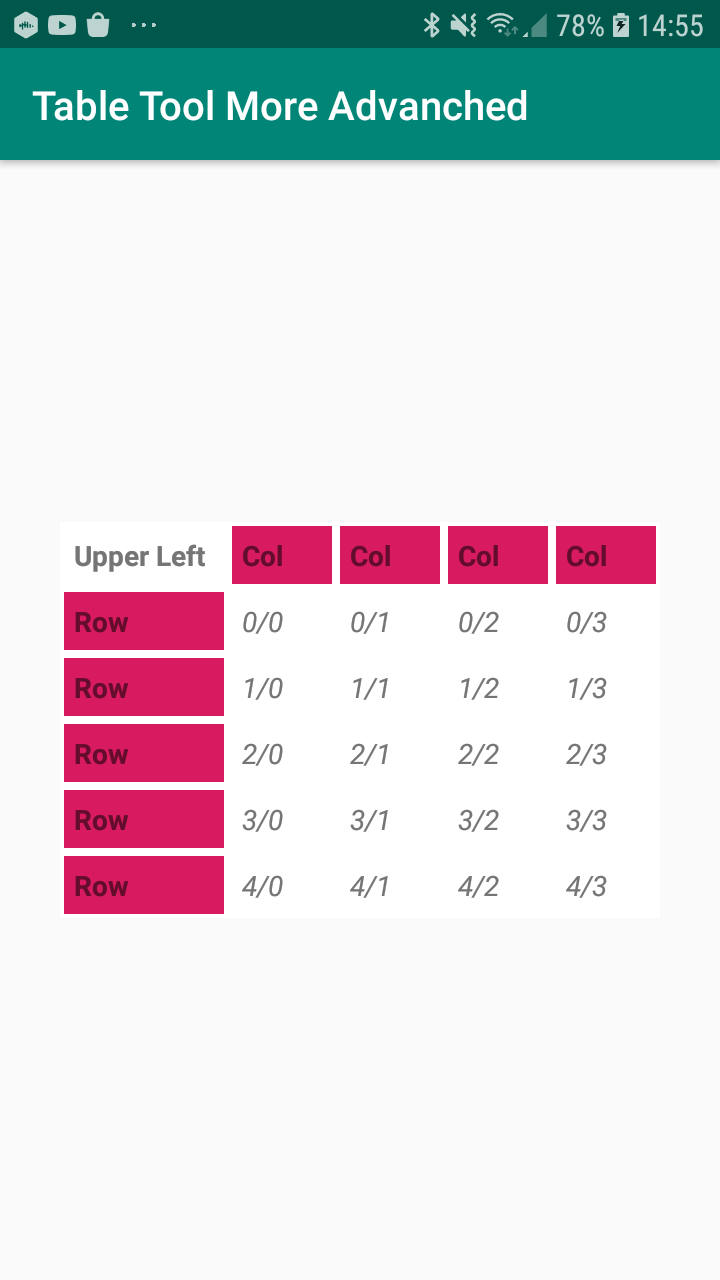
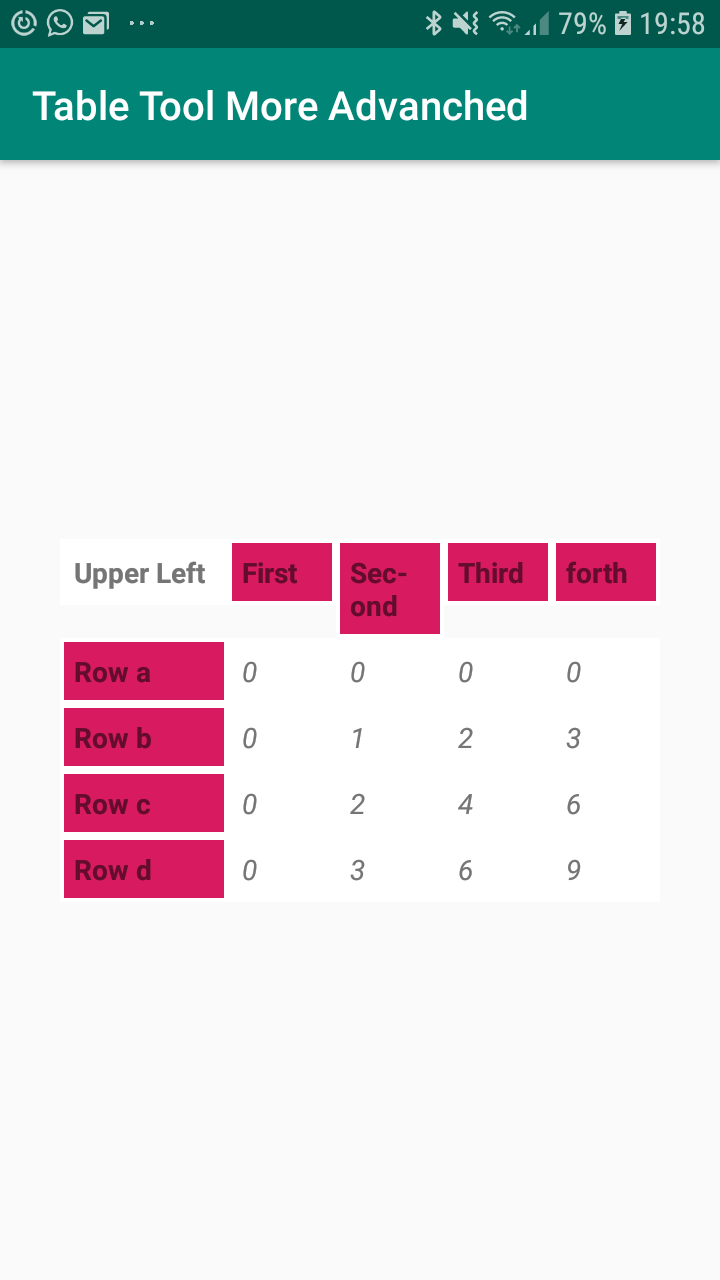
Custom adapter and data sources for cell content added.

diff --git a/tabletool/src/main/java/berthold/tabletool/Table.java b/tabletool/src/main/java/berthold/tabletool/Table.java
@@ -17,6 +17,7 @@ public class Table extends AppCompatActivity {
     boolean tableHasTitleCells;
     private int columns, rows, cellViewID,upperLeftCornerCellID,columnTitleID,rowTitleID;
     private int dataSource[][];
+    private TableCustomAdapter tableArrayAdapter;
     private Context context;
 
     /**
@@ -27,12 +28,16 @@ public class Table extends AppCompatActivity {
      * @param cellViewID
      * @param context
      */
-    public Table(int columns, int rows, int cellViewID, Context context) {
+    public Table(int rows, int columns, int cellViewID, Context context) {
         tableHasTitleCells=false;
         this.columns = columns;
         this.rows = rows;
         this.cellViewID = cellViewID;
         this.context = context;
+    }
+
+    public void setAdapter (TableCustomAdapter tableArrayAdapter){
+        this.tableArrayAdapter=tableArrayAdapter;
     }
 
     /**
@@ -76,9 +81,6 @@ public class Table extends AppCompatActivity {
         // Create layout params like you would inside the layout.xml file
         LinearLayout.LayoutParams params = new LinearLayout.LayoutParams(LinearLayout.LayoutParams.WRAP_CONTENT, LinearLayout.LayoutParams.MATCH_PARENT);
 
-        // Initiate adapter which fills views obtained by this method with data
-        // and returns views containing that data.
-        TableArrayAdapter tableArrayAdapter = new TableArrayAdapter();
         LayoutInflater inflater = LayoutInflater.from(context);
 
         // Layout for the table
@@ -96,18 +98,18 @@ public class Table extends AppCompatActivity {
             titleRowLayout.addView(upperLeftCornerCell);
 
             // Now add column titles to title bar
-            for (int column = 0; column <= columns; column++) {
+            for (int column = 0; column <= columns-1; column++) {
 
                 View columnTitleView = inflater.inflate(columnTitleID, null);
                 View columnTitle = tableArrayAdapter.createColumnTitleCell(columnTitleView, column);
-                titleRowLayout.addView(columnTitle);
+               titleRowLayout.addView(columnTitle);
             }
 
             tableLayout.addView(titleRowLayout);
         }
 
         // Draw row titles and table cells for each row.
-        for (int row = 0; row <= rows; row++) {
+        for (int row = 0; row <= rows-1; row++) {
 
             // Now create the new layout for the row
             LinearLayout rowLayout = new LinearLayout(context);
@@ -121,7 +123,7 @@ public class Table extends AppCompatActivity {
             }
 
             // Fill row with cells
-            for (int column = 0; column <= columns; column++) {
+            for (int column = 0; column <= columns-1; column++) {
 
                 View cellView = inflater.inflate(cellViewID, null);
                 View cell = tableArrayAdapter.createCell(cellView, row, column);

diff --git a/app/src/main/java/berthold/tabletoolmoreadvanched/MyTableArrayAdapter.java b/app/src/main/java/berthold/tabletoolmoreadvanched/MyTableArrayAdapter.java
@@ -1,4 +1,4 @@
-package berthold.tabletool;
+package berthold.tabletoolmoreadvanched;
 
 /**
  * Table Array Adapter.
@@ -10,10 +10,18 @@ package berthold.tabletool;
 import android.view.View;
 import android.widget.TextView;
 
-import androidx.appcompat.app.AppCompatActivity;
+import berthold.tabletool.TableCustomAdapter;
 
-public class TableArrayAdapter extends AppCompatActivity {
+public class MyTableArrayAdapter extends TableCustomAdapter {
 
+    private int[][] dataSource;
+    private String [] columnTitles,rowTitles;
+
+    MyTableArrayAdapter(int [][] dataSource,String [] rowTitles,String [] columnTitles){
+        this.dataSource=dataSource;
+        this.rowTitles=rowTitles;
+        this.columnTitles=columnTitles;
+    }
     /**
      * Creates a table cell containing data to be shown...
      *
@@ -23,11 +31,10 @@ public class TableArrayAdapter extends AppCompatActivity {
      * @return
      */
     public View createCell(View cellView, int row, int column) {
-
         TextView cellContent = cellView.findViewById(R.id.cell_view_text);
-        cellContent.setText(row + "/" + column);
+        String data=""+dataSource [row][column];
+        cellContent.setText(data);
         cellContent.setTag("Row:" + row);
-
         return cellView;
     }
 
@@ -40,10 +47,8 @@ public class TableArrayAdapter extends AppCompatActivity {
     public View createUpperLeftCornerCell (View upperLeftCornerCellView){
         TextView upperLeftCornerCellContent=upperLeftCornerCellView.findViewById(R.id.upper_left_corner_cell_content);
         upperLeftCornerCellContent.setText("Upper Left");
-
         return upperLeftCornerCellView;
     }
-
 
     /**
      * Creates the titel cells for each column.
@@ -54,10 +59,10 @@ public class TableArrayAdapter extends AppCompatActivity {
      */
     public View createColumnTitleCell(View columnTitleView, int column){
         TextView columnTitelContent = columnTitleView.findViewById(R.id.column_title_view_text);
-        columnTitelContent.setText("Col");
-
+        columnTitelContent.setText(columnTitles[column]);
         return columnTitleView;
     }
+
     /**
      * Creates the title cells for each row.
      *
@@ -66,10 +71,8 @@ public class TableArrayAdapter extends AppCompatActivity {
      * @return
      */
     public View createRowTitleCell(View rowTitleView, int row) {
-
         TextView rowTitelContent = rowTitleView.findViewById(R.id.row_title_view_text);
-        rowTitelContent.setText("Row");
-
+        rowTitelContent.setText(rowTitles[row]);
         return rowTitleView;
     }
 }

diff --git a/app/src/main/java/berthold/tabletoolmoreadvanched/MainActivity.java b/app/src/main/java/berthold/tabletoolmoreadvanched/MainActivity.java
@@ -29,28 +29,38 @@ import android.widget.LinearLayout;
 
 public class MainActivity extends AppCompatActivity {
 
+    static final int ROWS=4,COLUMNS=4;
+
     @Override
     protected void onCreate(Bundle savedInstanceState) {
         super.onCreate(savedInstanceState);
         setContentView(R.layout.activity_main);
 
-        int cellViewID=R.layout.tabel_cell_view;
-        int rowTitleViewID=R.layout.row_title;
-        int columnTitleViewID=R.layout.column_title;
-        int upperLeftCornerCellViewID=R.layout.upper_left_corner_cell;
+        int cellViewID = R.layout.tabel_cell_view;
+        int rowTitleViewID = R.layout.row_title;
+        int columnTitleViewID = R.layout.column_title;
+        int upperLeftCornerCellViewID = R.layout.upper_left_corner_cell;
 
+        int[][] cellData = new int[ROWS][COLUMNS];
+        String [] rowTitles={"Row a","Row b","Row c","Row d"};
+        String [] columnTitles={"First","Second","Third","forth"};
+
+        for (int rows = 0; rows <= ROWS-1; rows++) {
+            for (int columns = 0; columns <= COLUMNS - 1; columns++) {
+                cellData[rows][columns] = rows*columns;
+            }
+        }
 
         // Builds a table without cell titles
         //Table table=new Table(3,4,cellViewID,this);
 
         // Builds a table with cell titles
-        Table table=new Table(3,4,upperLeftCornerCellViewID,columnTitleViewID,rowTitleViewID,cellViewID,this);
+        Table table=new Table(ROWS,COLUMNS,upperLeftCornerCellViewID,columnTitleViewID,rowTitleViewID,cellViewID,this);
+        table.setAdapter(new MyTableArrayAdapter(cellData,rowTitles,columnTitles));
         View theTable=table.build();
 
         // Add layout to existing layout
         LinearLayout pl = (LinearLayout) findViewById(R.id.table);
         pl.addView(theTable);
-
-
     }
 }

diff --git a/tabletool/src/main/java/berthold/tabletool/TableCustomAdapter.java b/tabletool/src/main/java/berthold/tabletool/TableCustomAdapter.java
@@ -1,0 +1,14 @@
+package berthold.tabletool;
+
+import android.view.View;
+
+public abstract class TableCustomAdapter {
+
+    public abstract View createCell(View cellView,int row,int column);
+
+    public abstract View createUpperLeftCornerCell(View upperLeftCornerCellView);
+
+    public abstract View createColumnTitleCell(View columnTitleView, int column);
+
+    public abstract View createRowTitleCell(View rowTitleView, int row);
+}
